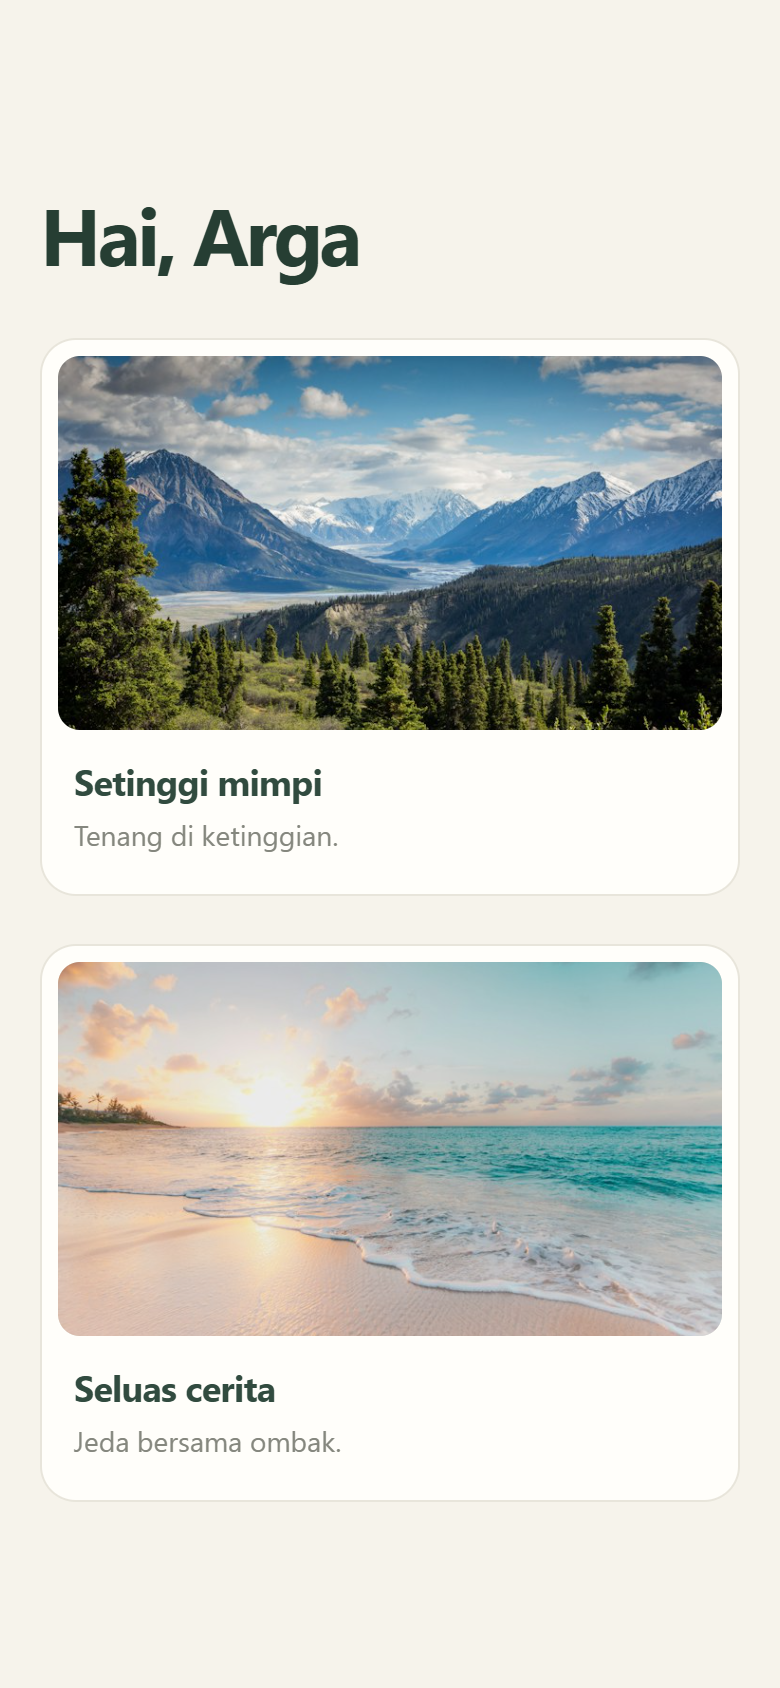
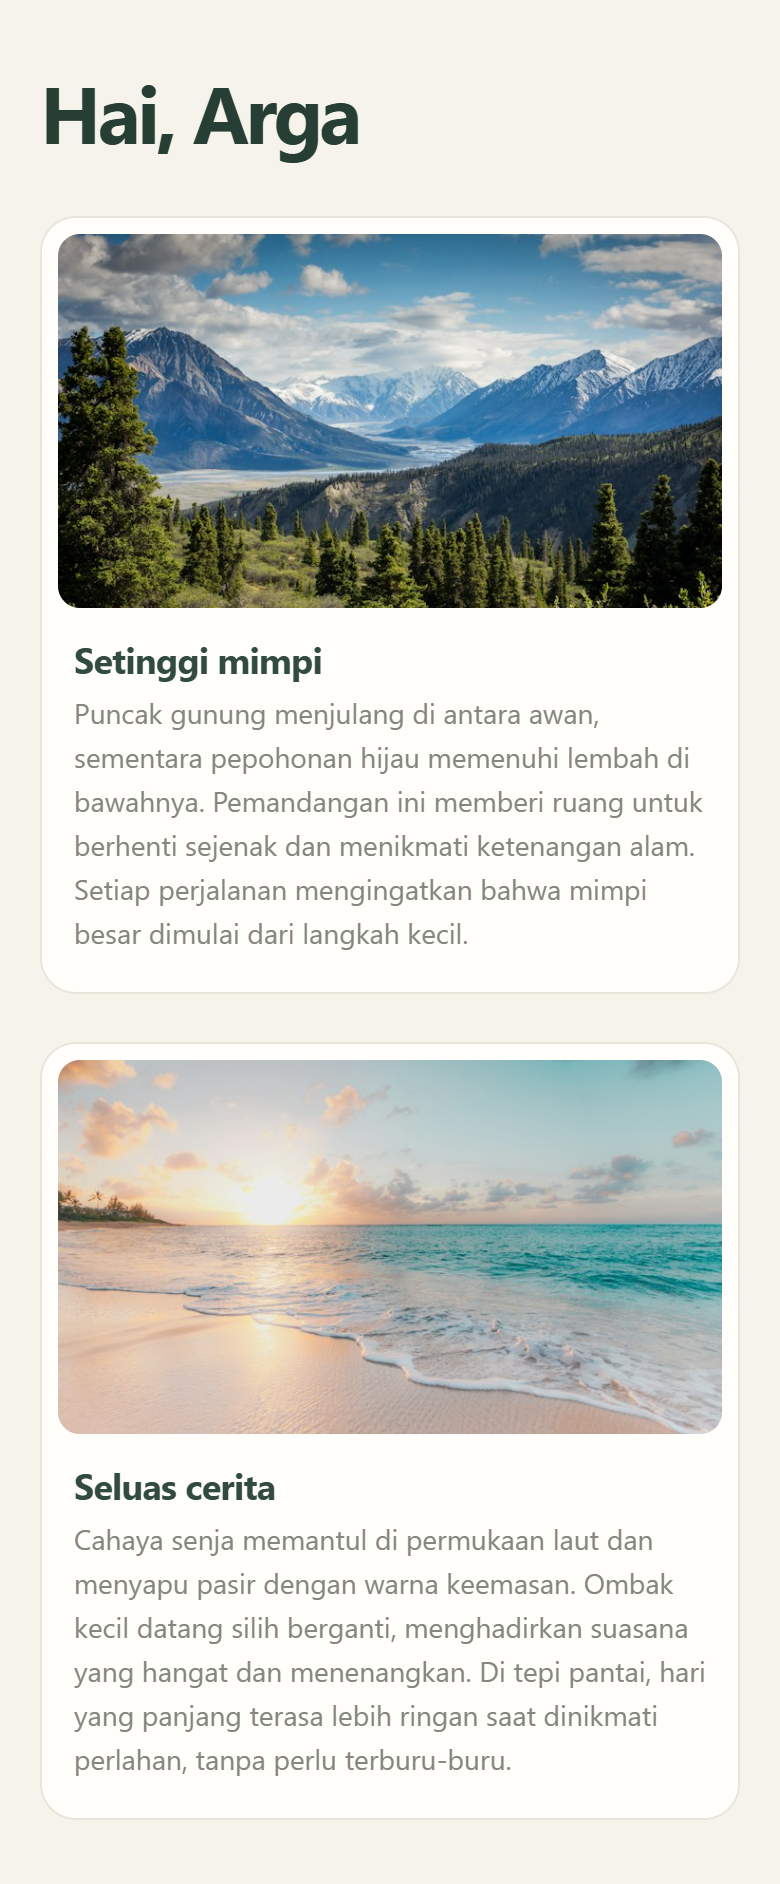
Expand captions for mountain and beach photos

diff --git a/App.js b/App.js
@@ -25,7 +25,13 @@ export default function App() {
                 </View>
                 <View style={styles.caption}>
                   <Text style={styles.captionTitle}>Setinggi mimpi</Text>
-                  <Text style={styles.captionText}>Tenang di ketinggian.</Text>
+                  <Text style={styles.captionText}>
+                    Puncak gunung menjulang di antara awan, sementara pepohonan
+                    hijau memenuhi lembah di bawahnya. Pemandangan ini memberi
+                    ruang untuk berhenti sejenak dan menikmati ketenangan alam.
+                    Setiap perjalanan mengingatkan bahwa mimpi besar dimulai dari
+                    langkah kecil.
+                  </Text>
                 </View>
               </View>
 
@@ -40,7 +46,13 @@ export default function App() {
                 </View>
                 <View style={styles.caption}>
                   <Text style={styles.captionTitle}>Seluas cerita</Text>
-                  <Text style={styles.captionText}>Jeda bersama ombak.</Text>
+                  <Text style={styles.captionText}>
+                    Cahaya senja memantul di permukaan laut dan menyapu pasir
+                    dengan warna keemasan. Ombak kecil datang silih berganti,
+                    menghadirkan suasana yang hangat dan menenangkan. Di tepi
+                    pantai, hari yang panjang terasa lebih ringan saat dinikmati
+                    perlahan, tanpa perlu terburu-buru.
+                  </Text>
                 </View>
               </View>
             </View>
